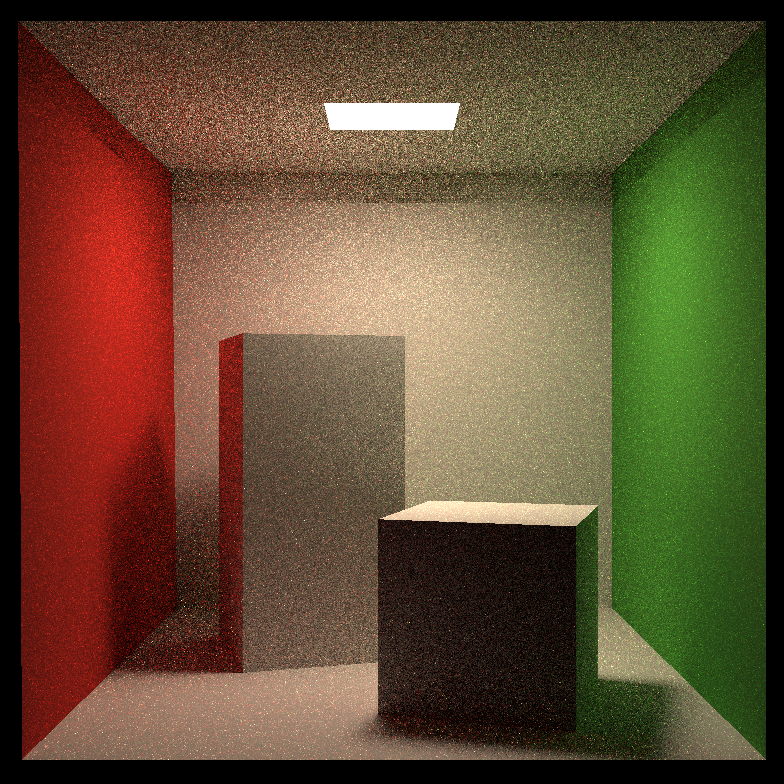
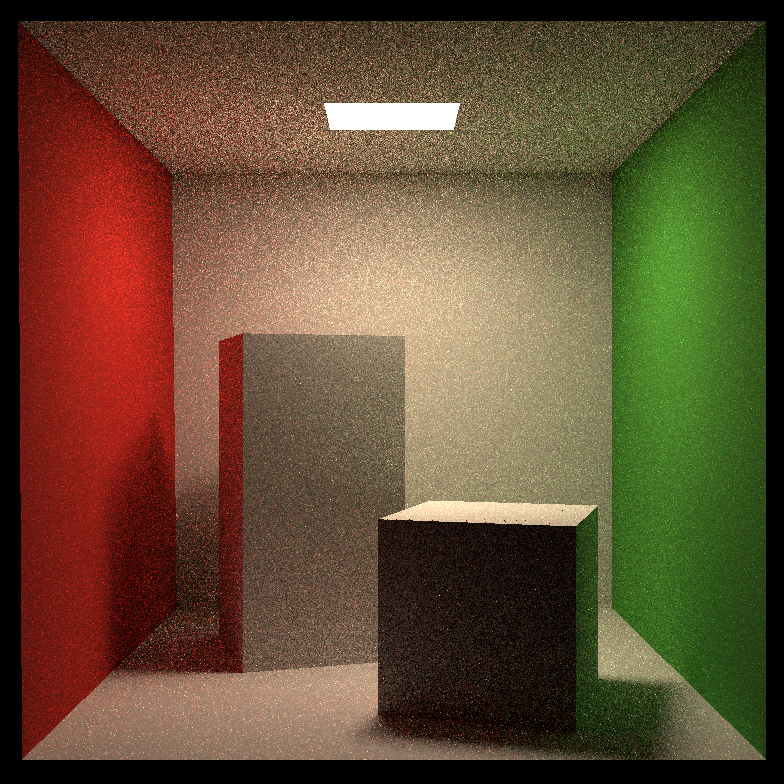
finished ass7

diff --git a/Assignment7/Assignment7/Scene.cpp b/Assignment7/Assignment7/Scene.cpp
@@ -3,6 +3,7 @@
 //
 
 #include "Scene.hpp"
+const float small=1e-5;
 
 void Scene::buildBVH()
 {
@@ -82,22 +83,22 @@ Vector3f Scene::shade(Intersection const &pInter, Vector3f wo) const
     sampleLight(inter, pdf_light);
     auto ws = (inter.coords - p).normalized();
     Vector3f L_dir;
-    if (dotProduct(ws, pInter.normal) >= 0)
+    if (float cos1 = dotProduct(-ws, inter.normal), cos2 = dotProduct(ws, pInter.normal); cos1 >= 0 && cos2 >= 0)
     {
-        auto shot = intersect(Ray(p + ws * EPSILON, ws));
+        auto shot = intersect(Ray(p + ws * small, ws));
         if ((shot.coords - inter.coords).norm() < EPSILON)
         {
-            L_dir = inter.emit * pInter.m->eval(wo, ws, pInter.normal) * dotProduct(ws, pInter.normal) * dotProduct(-ws, inter.normal) / pow((inter.coords - p).norm(), 2) / pdf_light;
+            L_dir = inter.emit * pInter.m->eval(wo, ws, pInter.normal) * cos1 * cos2 / pow((inter.coords - p).norm(), 2) / pdf_light;
         }
     }
     Vector3f L_indir;
     if (get_random_float() < RussianRoulette)
     {
         auto wi = pInter.m->sample(wo, pInter.normal);
-        auto shot = intersect(Ray(p + wi * EPSILON, wi));
-        if (shot.happened && shot.emit.norm() < EPSILON)
+        auto shot = intersect(Ray(p+ wi * small, wi));
+        if (auto pdf=pInter.m->pdf(wo, wi, pInter.normal);pdf>=EPSILON&&shot.happened && shot.emit.norm() < EPSILON)
         {
-            L_indir = shade(shot, wi) * pInter.m->eval(wo, wi, pInter.normal) * dotProduct(wi, pInter.normal) / pInter.m->pdf(wo, wi, pInter.normal) / RussianRoulette;
+            L_indir = shade(shot, wi) * pInter.m->eval(wo, wi, pInter.normal) * dotProduct(wi, pInter.normal) / pdf / RussianRoulette;
         }
     }
     Vector3f L_self = pInter.emit * dotProduct(-wo, pInter.normal);

diff --git a/Assignment7/Assignment7/global.hpp b/Assignment7/Assignment7/global.hpp
@@ -30,9 +30,9 @@ inline  bool solveQuadratic(const float &a, const float &b, const float &c, floa
 
 inline float get_random_float()
 {
-    std::random_device dev;
-    std::mt19937 rng(dev());
-    std::uniform_real_distribution<float> dist(0.f, 1.f); // distribution in range [1, 6]
+    static std::random_device dev;
+    static std::mt19937 rng(dev());
+    static std::uniform_real_distribution<float> dist(0.f, 1.f); // distribution in range [1, 6]
 
     return dist(rng);
 }

diff --git a/README.md b/README.md
@@ -53,18 +53,31 @@ bling-phong光照模型
 
 ### 7
 
+手写多线程加速，最大线程数为12，为本机最大逻辑cpu数量
+
 4ssp密度下的渲染图
+
+用时:91 seconds
 
 ![](pic/7/4spp.png)
 
 16ssp密度下的渲染图
 
-用时:789 seconds
+用时:90 seconds
 
 ![](pic/7/16spp.png)
 
 
 128ssp密度下的渲染图
-使用USTC Vlab运行
-用时:3862 seconds
+
+用时:105 seconds
+
 ![](pic/7/128spp.png)
+
+
+1024ssp密度下的渲染图
+
+用时:567 seconds
+
+![](pic/7/1024spp.png)
+
